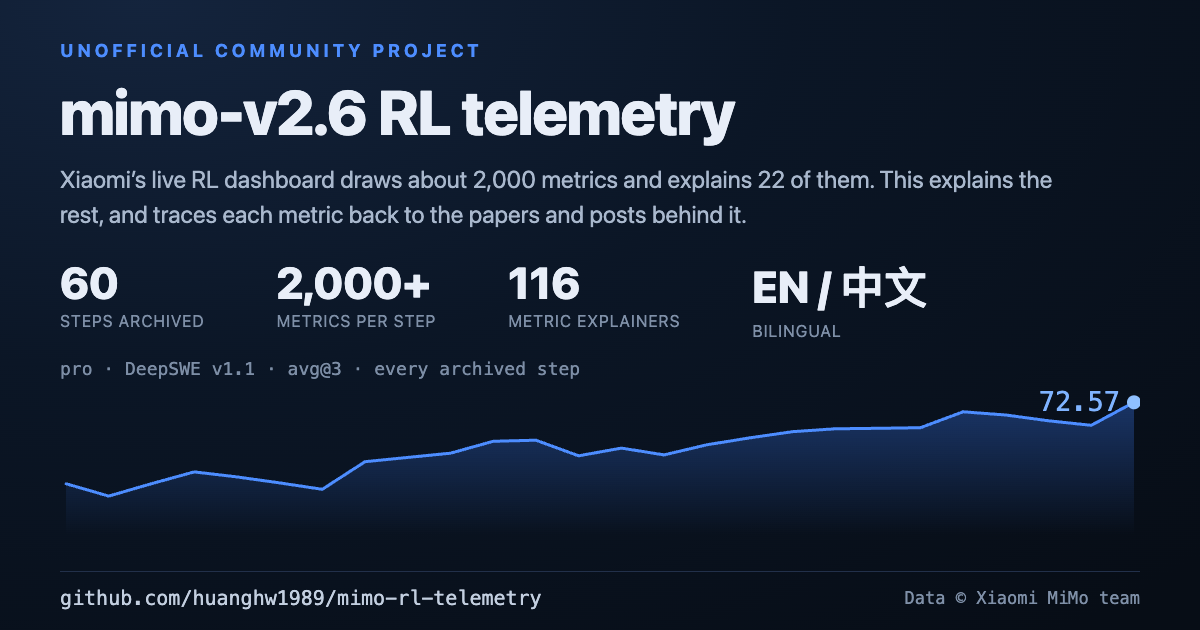
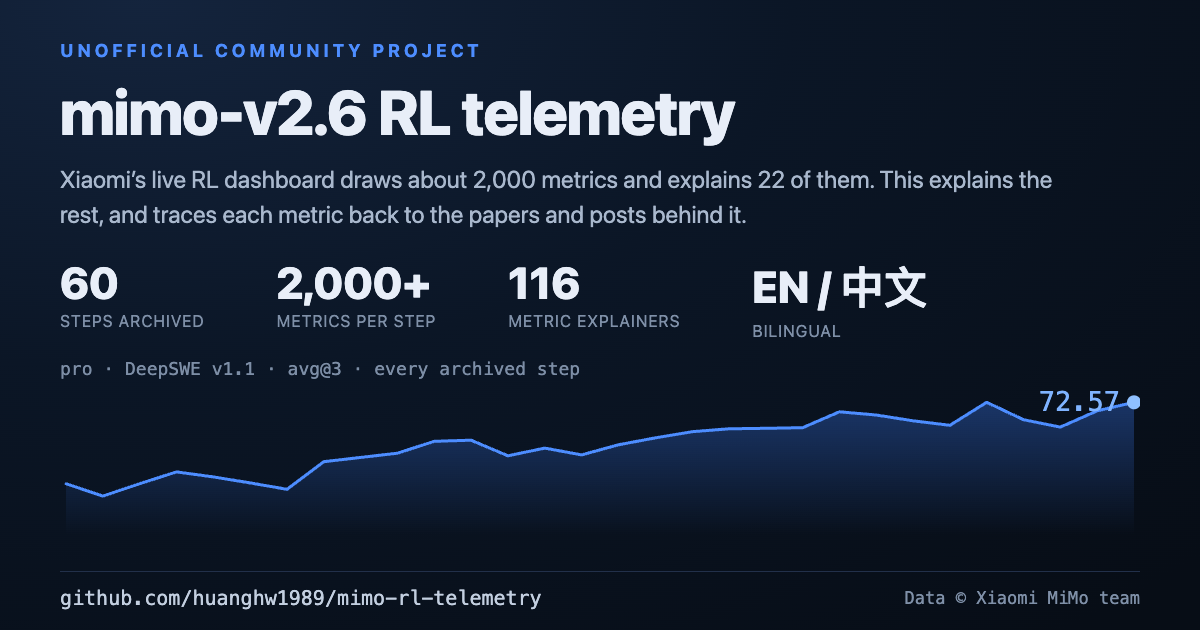
sync data; document uneven benchmark coverage (boards stop at steps 29-30)

Changed region(s): [[0.0617, 0.6333, 0.9558, 0.7841]]

diff --git a/README.md b/README.md
@@ -46,10 +46,13 @@ artifact rather than a live one:
 | `mimo-v2.6-flash` | 30 | 2026-09-15 23:16 → 2026-09-19 10:22 | 3 d 11 h 06 m | **$854,045** | 5 |
 | **total** | **60** | — | — | **$3,474,716** | 19 |
 
-The archived benchmark points trail the runs (pro's last posted score is step 26, flash's is
-step 30), so the newest benchmark number is never the newest training step. The run's own
-incidents are public too: pro restarted at step 17 on a GPU OOM caused by expert load
-imbalance, and the team later filtered out prompts that had become too easy for pro.
+Benchmark coverage trails the runs unevenly rather than simply stopping early. DeepSWE reaches
+step 30 for both runs, while In-house Coding and AutomationBench stop at step 29 for pro (flash
+is complete on all three). There is no single step that is newest for every board, so a
+benchmark figure is only meaningful together with the board it came from and the step it was
+measured at. The run's own incidents are public too: pro restarted at step 17 on a GPU OOM
+caused by expert load imbalance, and the team later filtered out prompts that had become too
+easy for pro.
 
 > **Unofficial, community project.** This is not affiliated with, endorsed by, or
 > maintained by Xiaomi or the MiMo team. It reads only the public dashboard API. The
@@ -314,6 +317,14 @@ None of the analysis scripts hard-code a conclusion number — each one recomput
 
 The long-form analysis lives under `analysis/zh-CN/` (canonical Chinese); English
 renderings are generated to `analysis/en/` by `bun run translate:docs`. Takeaways:
+
+Each note below is a self-contained analysis with its **own data cut**, written when the runs
+were still advancing. The one-line takeaway therefore quotes that note's numbers, which can
+differ from the final cut (pro and flash both stopped at step 30). Where it matters the note
+says which cut it uses. Re-run the note's own command to refresh it. Final-cut equivalents for
+the two figures most often quoted out of context: the step-time gap is pro **32.13 h**
+($660,548, 25.2% of the bill) and flash **14.15 h** ($145,403, 17.0%); DeepSWE's minimum
+detectable single-step change is **4.52** (pro) and **5.90** (flash).
 
 | Document | Takeaway |
 | --- | --- |

diff --git a/README.zh-CN.md b/README.zh-CN.md
@@ -41,9 +41,11 @@
 | `mimo-v2.6-flash` | 30 | 2026-09-15 23:16 → 2026-09-19 10:22 | 3 天 11 小时 06 分 | **$854,045** | 5 |
 | **合计** | **60** | — | — | **$3,474,716** | 19 |
 
-归档的评测点落后于训练步（pro 最后一次成绩在第 26 步、flash 在第 30 步），
-所以最新的评测数字不等于最新的训练步。两次 run 的事故也都是公开的：
-pro 在第 17 步因 MoE 专家负载不均导致 GPU OOM 重启，之后团队又过滤掉了对当前 pro 已经过易的题目。
+归档的评测点**不是整齐地落后**，而是三个榜各停在各处：DeepSWE 两个 run 都到第 30 步，
+In-house Coding 与 AutomationBench 的 pro 停在第 29 步（flash 三个榜都已跑满）。
+不存在「对每个榜都是最新」的那一步，所以评测数字只有**连同榜名和步号**一起说才有意义。
+两次 run 的事故也都是公开的：pro 在第 17 步因 MoE 专家负载不均导致 GPU OOM 重启，
+之后团队又过滤掉了对当前 pro 已经过易的题目。
 
 > **非官方社区项目。** 本项目与小米及 MiMo 团队无关，也未获其背书或维护，只读取公开的看板接口。
 > 上游看板以及复制到 `site/`、`data/upstream/` 下的未修改资源，版权仍归小米 MiMo 所有，
@@ -267,6 +269,12 @@ bun run export       # 导出单文件离线副本：site/offline.html
 
 成篇分析在 `analysis/zh-CN/` 下（中文原文），英文版由 `bun run translate:docs` 生成到
 `analysis/en/`。各篇一句话结论：
+
+下面每一篇都是**带自己数据切面**的独立分析，写在两个 run 还在推进的时候。所以「一句话结论」
+引用的是该篇切面下的数字，可能与最终切面（pro 与 flash 都已停在第 30 步）不一致；
+篇内会写明用的是哪个切面。要更新就重跑该篇自己的命令。两处最常被断章取义的最终切面值：
+步耗时缺口 pro **32.13 h**（$660,548，账单的 25.2%）、flash **14.15 h**（$145,403，17.0%）；
+DeepSWE 单步最小可测变化 pro **4.52**、flash **5.90**。
 
 | 文档 | 一句话结论 |
 | --- | --- |
